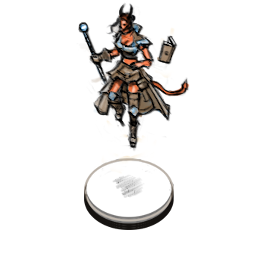
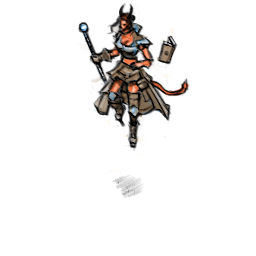
Cleanup rendering

Changed region(s): [[0.3125, 0.5938, 0.6875, 0.9062], [0.625, 0.6562, 0.6562, 0.6875]]

diff --git a/Stratega/src/GUI2/StateRenderer.cpp b/Stratega/src/GUI2/StateRenderer.cpp
@@ -3,17 +3,23 @@
 #include <Stratega/Representation/GameState.h>
 #include <Stratega/Representation/LevelDefinition.h>
 
+#include "TBSRendererImpl.h"
+
 namespace SGA
 {
 	StateRenderer::StateRenderer():
 		tileWidth(256),
 		tileHeight(143),
+		renderImpl(nullptr),
 		atlas(),
 		state(nullptr),
-		config(nullptr)
+		config(nullptr),
+		fpsCounter(0)
 	{
 	}
-	
+
+	StateRenderer::~StateRenderer() = default;
+
 	void StateRenderer::init(const GameState& initialState, const GameConfig& config)
 	{
 		this->state = &initialState;
@@ -21,8 +27,14 @@ namespace SGA
 		window.create(sf::VideoMode(1920 * 0.5, 1080 * 0.5), "Stratega GUI");
 		window.setFramerateLimit(60);
 
+		if(config.gameType == GameType::TBS)
+		{
+			renderImpl = std::make_unique<Detail::TBSRendererImpl>();
+		}
+		
 		// Start clock
 		deltaClock.restart();
+		fpsClock.restart();
 
 		// Initialize texture atlas
 		sf::Image image;
@@ -44,6 +56,13 @@ namespace SGA
 		auto view = window.getView();
 		view.setCenter(toWorldSpace(0, 0));
 		window.setView(view);
+	}
+
+	Vector2f toGridSpaceTest(sf::Vector2f worldPosition, int tileHeight, int tileWidth)
+	{
+		auto yRatio = worldPosition.y / static_cast<float>(tileHeight);
+		auto xRatio = worldPosition.x / static_cast<float>(tileWidth);
+		return Vector2f{ yRatio + xRatio, yRatio - xRatio };
 	}
 
 	std::unordered_set<sf::Keyboard::Key> pressedKeys;
@@ -92,78 +111,33 @@ namespace SGA
 
 		window.clear();
 
-		// Render grid
-		std::vector<const Entity*> entities(state->entities.size());
-		std::ranges::transform(state->entities, entities.begin(), [](const Entity& e) {return &e; });
-		std::ranges::sort(entities, [](const Entity* e1, const Entity* e2)
+		renderImpl->render(*state, *this);
+		
+		for(auto& entity : state->entities)
 		{
-			return std::tie(e1->position.x, e1->position.y) < std::tie(e2->position.x, e2->position.y);
-		});
-
-		int entityIndex = 0;
-		sf::VertexArray vertices(sf::Quads);
-		for(size_t x = 0; x < state->board.getWidth(); ++x)
-		{
-			for (size_t y = 0; y < state->board.getHeight(); ++y)
-			{
-				const auto& tile = state->board.get(x, y);
-				while(entityIndex < entities.size() && std::tie(entities[entityIndex]->position.x, entities[entityIndex]->position.y) < std::tie(tile.position.x, tile.position.y))
-				{
-					const auto* entity = entities[entityIndex];
-					auto entityCenter = toWorldSpace(entity->position.x, entity->position.y) + sf::Vector2f(0, tileHeight / 2.);
-					auto start = entityCenter - sf::Vector2f(atlas.getSpriteSize().x / 2., atlas.getSpriteSize().y - tileHeight / 2);
-					auto rect = atlas.getSpriteRect(entity->getEntityType().name);
-					auto tileSize = atlas.getSpriteSize();
-
-					sf::Vertex v;
-					v.position = sf::Vector2f(start.x, start.y);
-					v.texCoords = sf::Vector2f(rect.left, rect.top);
-					v.color = sf::Color::White;
-					vertices.append(v);
-
-					v.position = sf::Vector2f(start.x + tileSize.x, start.y);
-					v.texCoords = sf::Vector2f(rect.left + rect.width, rect.top);
-					vertices.append(v);
-
-					v.position = sf::Vector2f(start.x + tileSize.x, start.y + tileSize.y);
-					v.texCoords = sf::Vector2f(rect.left + rect.width, rect.top + rect.height);
-					vertices.append(v);
-
-					v.position = sf::Vector2f(start.x, start.y + tileSize.y);
-					v.texCoords = sf::Vector2f(rect.left, rect.top + rect.height);
-					vertices.append(v);
-					
-					entityIndex++;
-				}
-				
-				
-				auto tileCenter = toWorldSpace(x, y) + sf::Vector2f(0, tileHeight / 2.);
-				auto start = tileCenter - sf::Vector2f(atlas.getSpriteSize().x / 2., atlas.getSpriteSize().y - tileHeight / 2);
-				auto rect = atlas.getSpriteRect(tile.name());
-				auto tileSize = atlas.getSpriteSize();
-				
-				sf::Vertex v;
-				v.position = sf::Vector2f(start.x, start.y);
-				v.texCoords = sf::Vector2f(rect.left, rect.top);
-				v.color = sf::Color::White;
-				vertices.append(v);
-
-				v.position = sf::Vector2f(start.x + tileSize.x, start.y);
-				v.texCoords = sf::Vector2f(rect.left + rect.width, rect.top);
-				vertices.append(v);
-
-				v.position = sf::Vector2f(start.x + tileSize.x, start.y + tileSize.y);
-				v.texCoords = sf::Vector2f(rect.left + rect.width, rect.top + rect.height);
-				vertices.append(v);
-
-				v.position = sf::Vector2f(start.x, start.y + tileSize.y);
-				v.texCoords = sf::Vector2f(rect.left, rect.top + rect.height);
-				vertices.append(v);
-			}
+			sf::CircleShape s;
+			s.setPosition(toWorldSpace(entity.position));
+			s.setRadius(10);
+			s.setOrigin(5, 5);
+			window.draw(s);
 		}
-		window.draw(vertices, &atlas.getAtlasTexture());
 
 		renderDebugGrid();
+
+		fpsCounter++;
+		if(fpsClock.getElapsedTime().asSeconds() >= 1)
+		{
+			sf::Font f;
+			f.loadFromFile("C:/QMUL/StrategaPublic/GUI/Assets/arial.ttf");
+			auto text = std::to_string(fpsCounter);
+			sf::Text t(text, f);
+			t.setPosition(view.getViewport().left, view.getViewport().top);
+			window.draw(t);
+
+			fpsCounter = 0;
+			fpsClock.restart();
+		}
+		
 		window.display();
 
 	}
@@ -192,6 +166,48 @@ namespace SGA
 		window.draw(vertices);
 	}
 
+	void StateRenderer::drawTile(const Tile& tile)
+	{
+		auto tileCenter = toWorldSpace(static_cast<float>(tile.position.x), static_cast<float>(tile.position.y)) + sf::Vector2f(0.f, static_cast<float>(tileHeight) / 2.f);
+		drawSprite(tile.getType().name, tileCenter);
+	}
+
+	void StateRenderer::drawEntity(const Entity& entity, const Vector2f& gridPosition)
+	{
+		auto worldPos = toWorldSpace(static_cast<float>(gridPosition.x), static_cast<float>(gridPosition.y));
+		drawSprite(entity.getEntityType().name, worldPos);
+	}
+
+	void StateRenderer::drawSprite(const std::string& spriteName, const sf::Vector2f& worldPosition)
+	{
+		// ToDo Batch draw calls
+		auto textureRect = atlas.getSpriteRect(spriteName);
+		auto spriteSize = atlas.getSpriteSize();
+		auto start = worldPosition - sf::Vector2f(atlas.getSpriteSize().x / 2., atlas.getSpriteSize().y - tileHeight / 2);
+
+		sf::Vertex vertices[4];
+		// Upper Left Corner
+		vertices[0].position = sf::Vector2f(start.x, start.y);
+		vertices[0].texCoords = sf::Vector2f(textureRect.left, textureRect.top);
+		vertices[0].color = sf::Color::White;
+		// Upper Right Corner
+		vertices[1].position = sf::Vector2f(start.x + spriteSize.x, start.y);
+		vertices[1].texCoords = sf::Vector2f(textureRect.left + textureRect.width, textureRect.top);
+		vertices[1].color = sf::Color::White;
+		// Lower Right Corner
+		vertices[2].position = sf::Vector2f(start.x + spriteSize.x, start.y + spriteSize.y);
+		vertices[2].texCoords = sf::Vector2f(textureRect.left + textureRect.width, textureRect.top + textureRect.height);
+		vertices[2].color = sf::Color::White;
+		// Lower Left Corner
+		vertices[3].position = sf::Vector2f(start.x, start.y + spriteSize.y);
+		vertices[3].texCoords = sf::Vector2f(textureRect.left, textureRect.top + textureRect.height);
+		vertices[3].color = sf::Color::White;
+
+		// Draw to window
+		sf::RenderStates states;
+		states.texture = &atlas.getAtlasTexture();
+		window.draw(vertices, 4, sf::Quads, states);
+	}
 
 	sf::Vector2f StateRenderer::toWorldSpace(Vector2f gridPosition) const
 	{

diff --git a/Stratega/src/GUI2/TBSRendererImpl.cpp b/Stratega/src/GUI2/TBSRendererImpl.cpp
@@ -1,0 +1,37 @@
+#include "TBSRendererImpl.h"
+
+namespace SGA::Detail
+{
+	void TBSRendererImpl::render(const GameState& state, StateRenderer& renderer)
+	{
+		// Sort entities by x-axis and then y-axis
+		std::vector<const Entity*> entities;
+		entities.resize(state.entities.size());
+		std::ranges::transform(state.entities, entities.begin(), [](const Entity& e) {return &e; });
+		std::ranges::sort(entities, [](const Entity* e1, const Entity* e2)
+		{
+			return std::tie(e1->position.x, e1->position.y) < std::tie(e2->position.x, e2->position.y);
+		});
+
+		// Render the board
+		size_t entityIndex = 0;
+		for (size_t x = 0; x < state.board.getWidth(); ++x)
+		{
+			for (size_t y = 0; y < state.board.getHeight(); ++y)
+			{
+				renderer.drawTile(state.board.get(x, y));
+
+				// Draw all entities standing on this tile, since we sorted the array we don't have to search for all of them
+				while(entityIndex < entities.size() && entities[entityIndex]->getBoardPosition() == Vector2i{static_cast<int>(x), static_cast<int>(y)})
+				{
+					const auto* e = entities[entityIndex];
+					entityIndex++;
+
+					// Always draw the entity in the center of the tile
+					auto pos = Vector2f{ e->getBoardPosition().x + 0.5, e->getBoardPosition().y + 0.5 };
+					renderer.drawEntity(*e, pos);
+				}
+			}
+		}
+	}
+}

diff --git a/Stratega/include/Stratega/GUI2/StateRenderer.h b/Stratega/include/Stratega/GUI2/StateRenderer.h
@@ -3,6 +3,11 @@
 #include <Stratega/Representation/GameState.h>
 #include <Stratega/GUI2/TextureAtlas.h>
 
+namespace SGA::Detail
+{
+	class RendererImpl;
+}
+
 namespace SGA
 {
 	struct GameConfig;
@@ -12,10 +17,15 @@ namespace SGA
 	{
 	public:
 		StateRenderer();
+		~StateRenderer();
 		
 		void init(const GameState& initialState, const GameConfig& config);
 		void render();
 		void update(const GameState& state);
+
+		void drawTile(const Tile& tile);
+		void drawEntity(const Entity& entity, const SGA::Vector2f& gridPosition);
+		void drawSprite(const std::string& spriteName, const sf::Vector2f& worldPosition);
 
 	private:
 		void renderDebugGrid();
@@ -27,10 +37,14 @@ namespace SGA
 		int tileWidth;
 		int tileHeight;
 
+		std::unique_ptr<Detail::RendererImpl> renderImpl;
 		TextureAtlas atlas;
 		sf::RenderWindow window;
 		sf::Clock deltaClock;
 		const GameState* state;
 		const GameConfig* config;
+
+		sf::Clock fpsClock;
+		int fpsCounter;
 	};
 }

diff --git a/Stratega/src/GUI2/RendererImpl.h b/Stratega/src/GUI2/RendererImpl.h
@@ -1,0 +1,18 @@
+#pragma once
+#include <Stratega/GUI2/StateRenderer.h>
+
+namespace SGA::Detail
+{
+	class RendererImpl
+	{
+	public:
+		virtual ~RendererImpl() = default;
+		RendererImpl() = default;
+		RendererImpl(const RendererImpl& other) = delete;
+		RendererImpl(RendererImpl&& other) noexcept = delete;
+		RendererImpl& operator=(const RendererImpl& other) = delete;
+		RendererImpl& operator=(RendererImpl&& other) noexcept = delete;
+		
+		virtual void render(const GameState& state, StateRenderer& renderer) = 0;
+	};
+}

diff --git a/Stratega/include/Stratega/Representation/Entity.h b/Stratega/include/Stratega/Representation/Entity.h
@@ -172,6 +172,11 @@ namespace SGA
 		void printInfo() const;
 
 		/// <summary>
+		/// Returns the position of the tile this entity is standing on
+		/// <summary>
+		[[nodiscard]] Vector2i getBoardPosition() const { return { static_cast<int>(position.x), static_cast<int>(position.y) }; }
+		
+		/// <summary>
 		/// Gets the list of parameters values. Modifiable.
 		/// <summary>
 		/// <returns>The list of parameters values.</returns>

diff --git a/Stratega/src/GUI2/TBSRendererImpl.h b/Stratega/src/GUI2/TBSRendererImpl.h
@@ -1,0 +1,11 @@
+#pragma once
+#include "RendererImpl.h"
+
+namespace SGA::Detail
+{
+	class TBSRendererImpl : public RendererImpl
+	{
+	public:
+		void render(const GameState& state, StateRenderer& renderer) override;
+	};
+}
